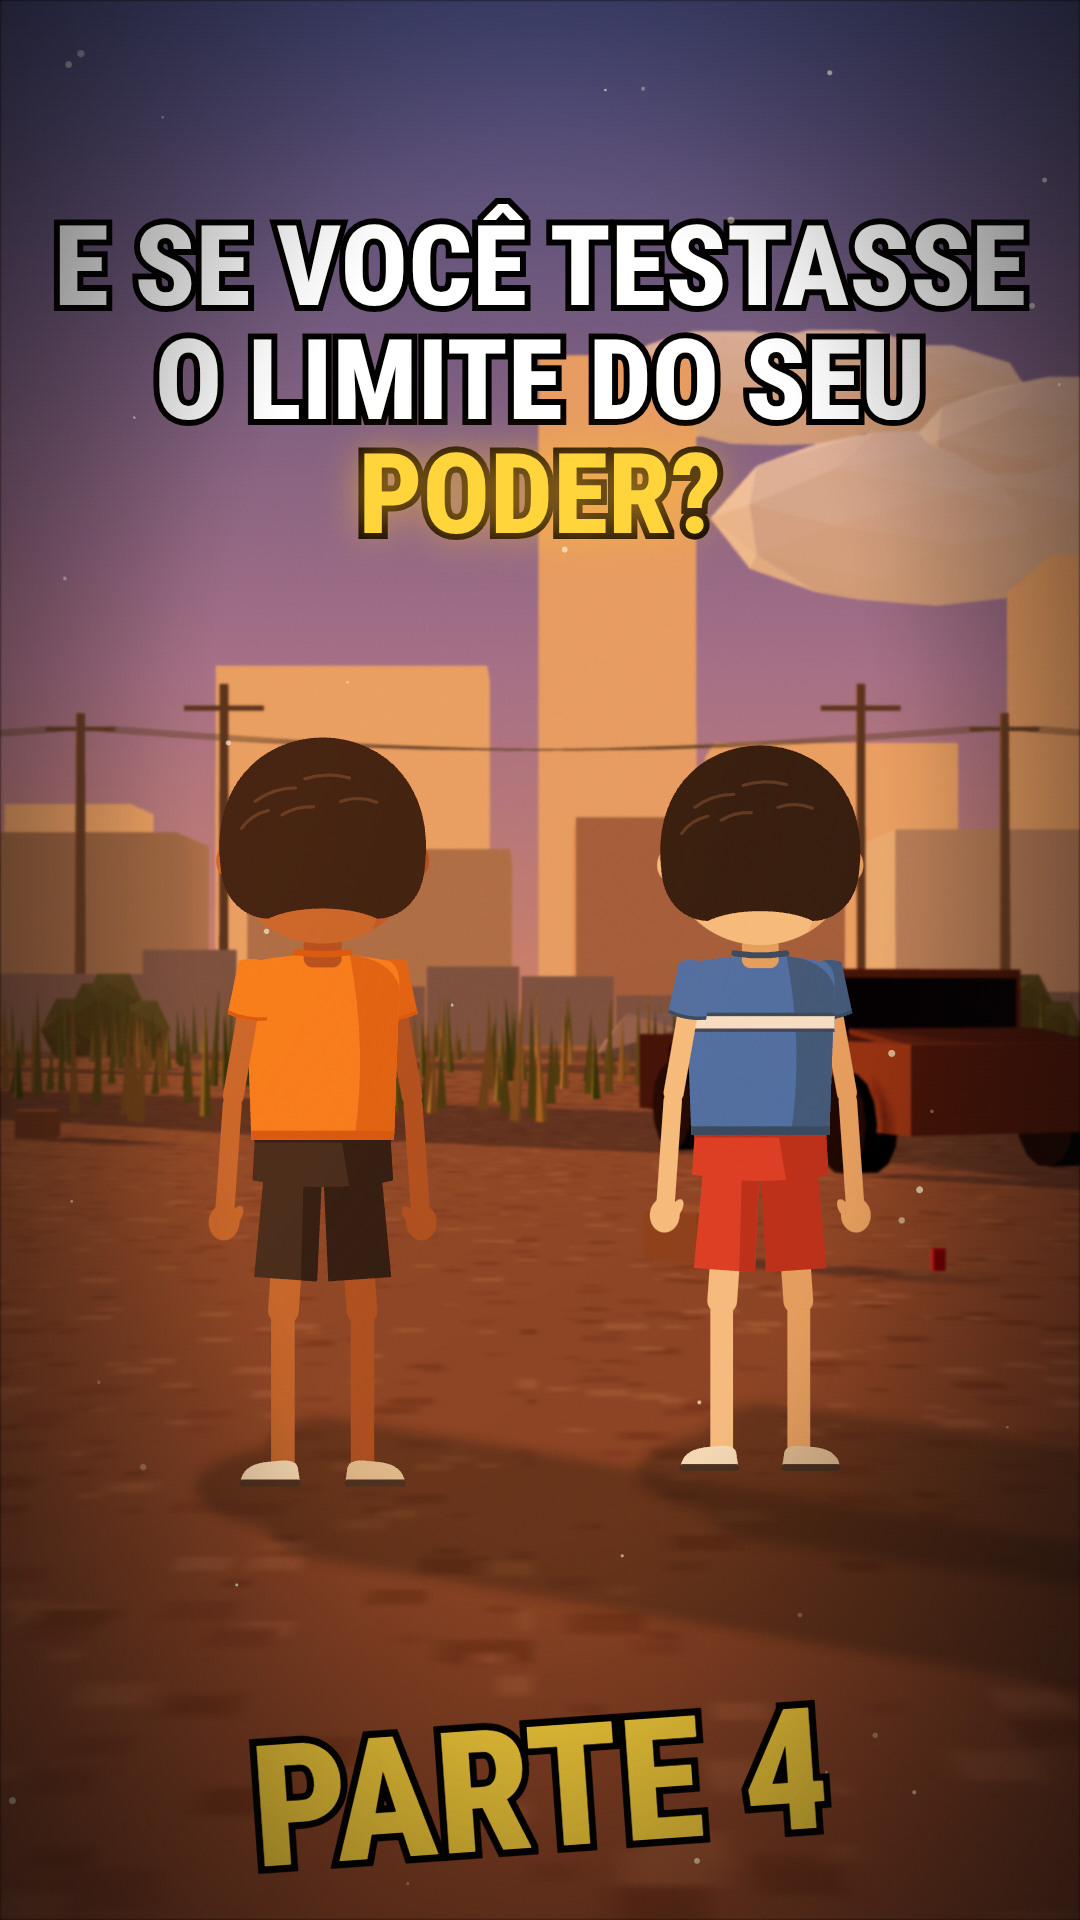
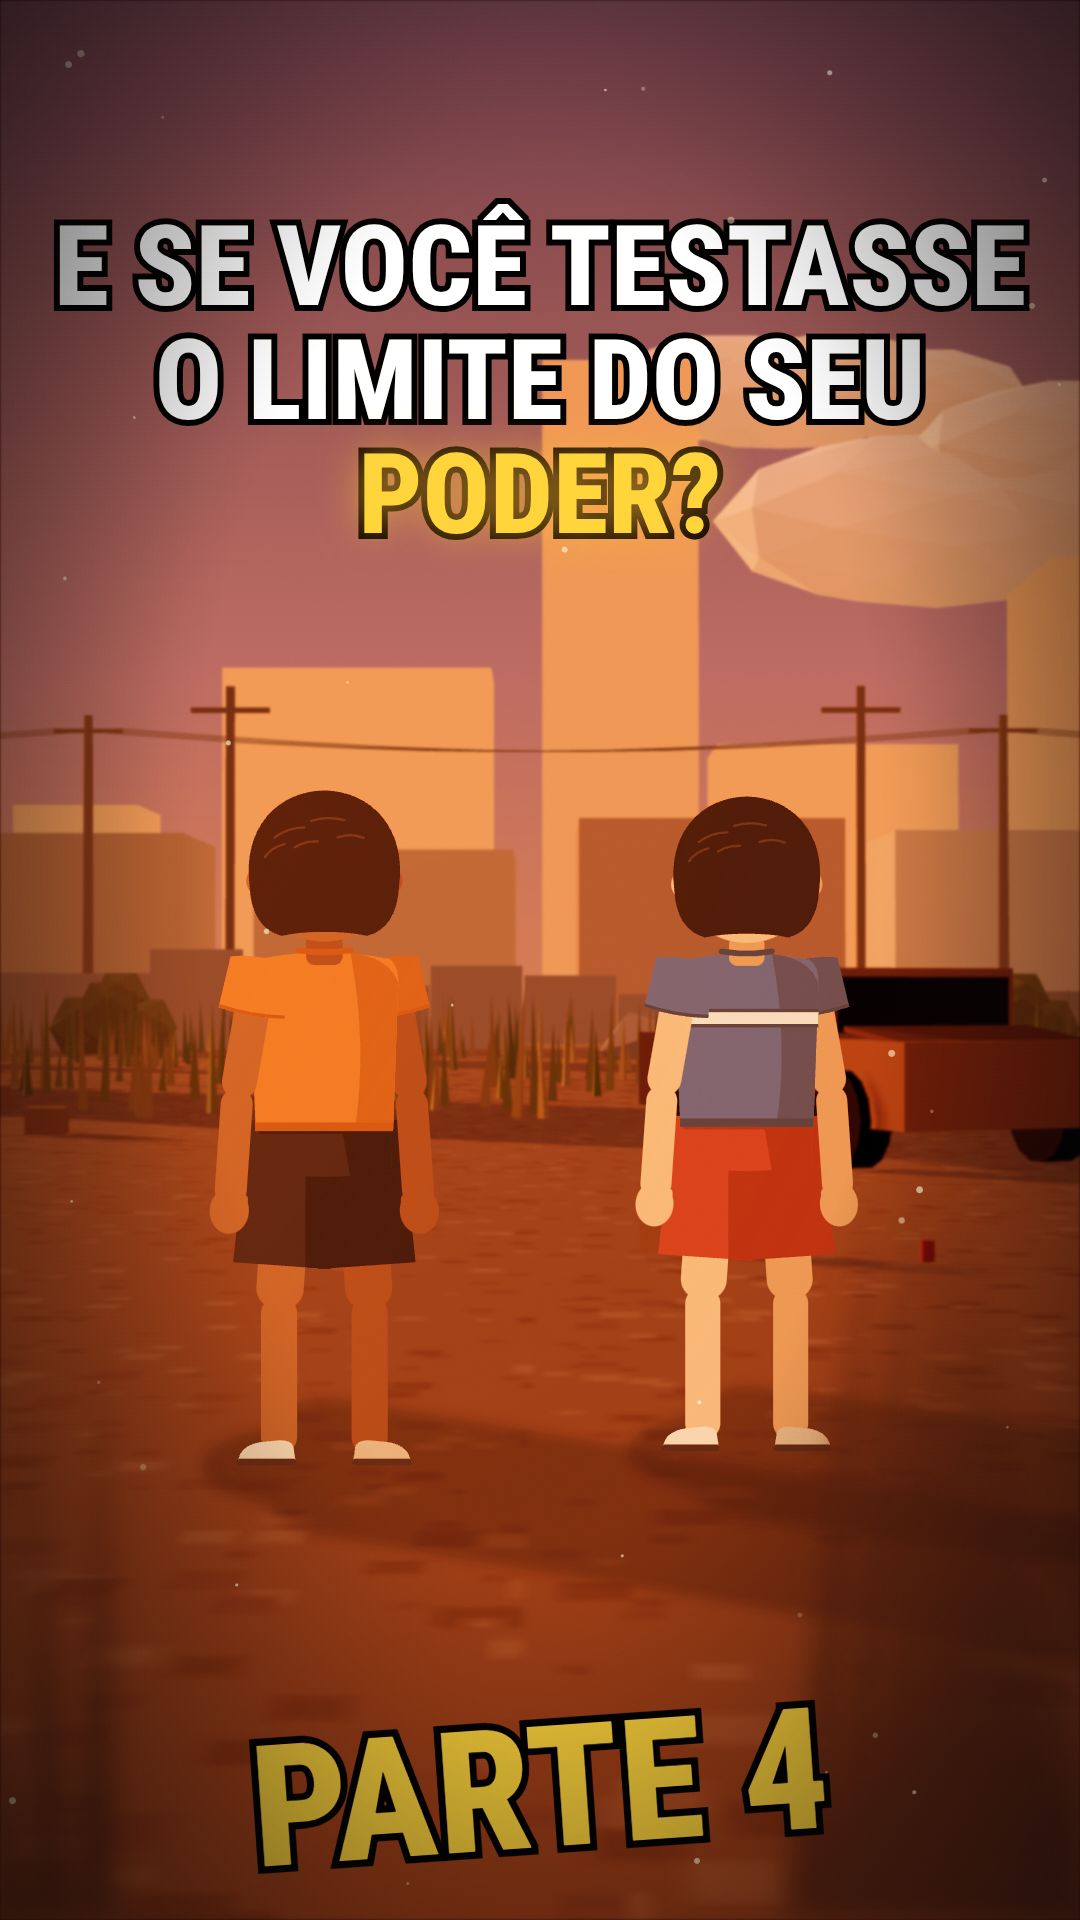
Cabelo cobre a nuca na vista de costas; capa com a proporção nova
Claude-Session: https://claude.ai/code/session_01VxVnSB2Gp8guziDvUfHTY2

diff --git a/estudio/src/personagens/Chede.tsx b/estudio/src/personagens/Chede.tsx
@@ -471,7 +471,8 @@ const PENTEADO_FIOS = [
 const CABELO_SOMBRA =
   "M 120 -200 C 190 -160 230 -80 222 10 L 206 20 L 196 -60 C 180 -80 160 -90 150 -92 C 170 -130 160 -170 120 -200 Z";
 const CABELO_COSTAS =
-  "M -226 40 C -250 -140 -140 -250 0 -252 C 140 -250 250 -140 226 40 C 220 110 170 150 120 150 C 60 120 -60 120 -120 150 C -170 150 -220 110 -226 40 Z";
+  // de costas o cabelo cobre a nuca quase toda (antes sobrava pele e parecia um rosto sem olhos)
+  "M -226 40 C -250 -140 -140 -250 0 -252 C 140 -250 250 -140 226 40 C 222 120 190 172 130 188 C 60 172 -60 172 -130 188 C -190 172 -222 120 -226 40 Z";
 const CABELO_NUCA_PERFIL =
   "M -230 0 C -250 -150 -140 -250 0 -250 L 40 -100 C -40 -60 -90 0 -60 90 C -110 130 -170 130 -210 100 Z";
 const CABELO_NUCA_TRES =
